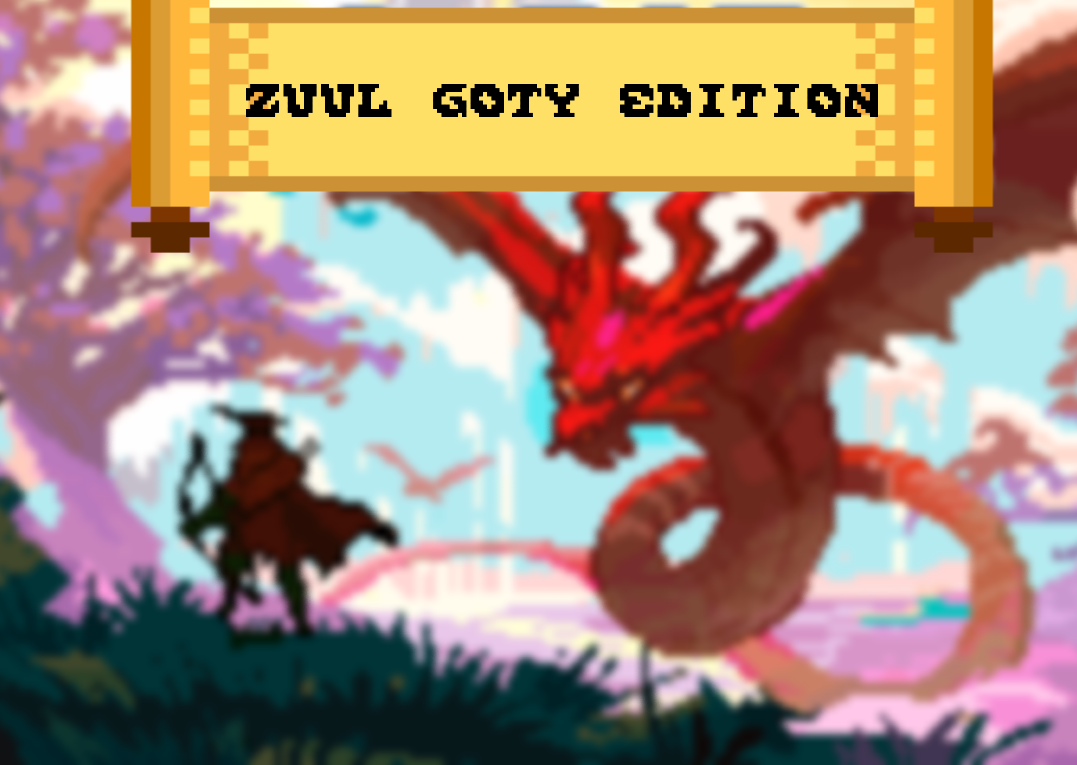
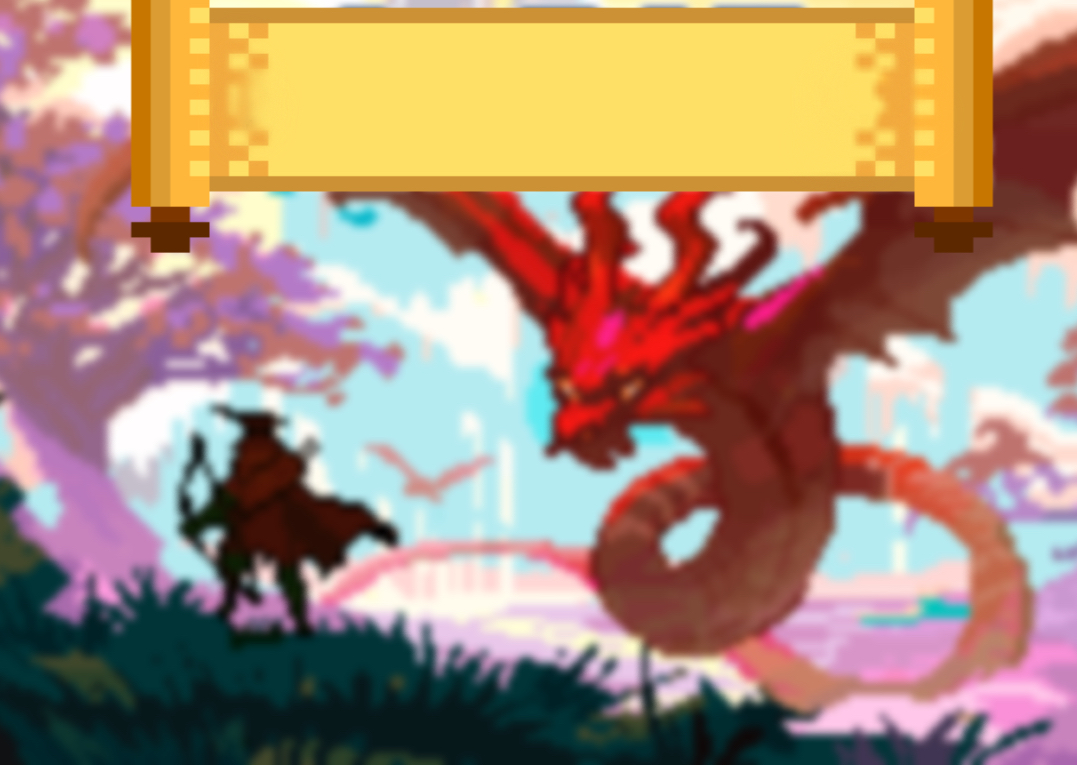
update font and menu image

Changed region(s): [[0.3983, 0.0902, 0.8579, 0.1503], [0.2145, 0.0902, 0.3677, 0.1804]]

diff --git a/pkg_UI/UserInterface.java b/pkg_UI/UserInterface.java
@@ -607,8 +607,6 @@ public class UserInterface implements ActionListener {
     }
   }
 
-
-
   /**
    * Show the background of the game over menu
    */
@@ -705,7 +703,11 @@ public class UserInterface implements ActionListener {
     // to import custom font
     // https://www.ryisnow.online/2021/04/java-for-beginner-how-to-use-custom-font.html
     try {
-      aFont = Font.createFont(Font.TRUETYPE_FONT, new File(aJsonReader.getGameFont()));
+      aFont =
+        Font.createFont(
+          Font.TRUETYPE_FONT,
+          new File(aJsonReader.getGameFont())
+        );
       GraphicsEnvironment vGraphicsEnvironment = GraphicsEnvironment.getLocalGraphicsEnvironment();
       vGraphicsEnvironment.registerFont(aFont);
 
@@ -725,7 +727,10 @@ public class UserInterface implements ActionListener {
     // to import custom font
     try {
       aMainMenuFont =
-        Font.createFont(Font.TRUETYPE_FONT, new File(aJsonReader.getMainMenuFont()));
+        Font.createFont(
+          Font.TRUETYPE_FONT,
+          new File(aJsonReader.getMainMenuFont())
+        );
       GraphicsEnvironment vGraphicsEnvironment = GraphicsEnvironment.getLocalGraphicsEnvironment();
       vGraphicsEnvironment.registerFont(aMainMenuFont);
 
@@ -1007,6 +1012,7 @@ public class UserInterface implements ActionListener {
 
   /**
    * This method create the panel of the battle
+   * //TODO: Update Battle panel
    */
   private void createBattlePanel() {
     this.aBattlerPanel = new JLayeredPane();
@@ -1225,7 +1231,7 @@ public class UserInterface implements ActionListener {
     this.aSoundPanel.add(vTitle, JLayeredPane.PALETTE_LAYER);
   }
 
-  private void createLanguagePanel(){
+  private void createLanguagePanel() {
     this.aLanguagePanel = new JLayeredPane();
     this.aLanguageBackground = new JLabel();
     this.aLanguagePanel.setPreferredSize(new Dimension(1077, 765));
@@ -1554,7 +1560,7 @@ public class UserInterface implements ActionListener {
   private void devModeToggle() {
     if (aEngine.isDevMode()) {
       this.aEngine.setDevMode(false);
-      this.aDevMode.setText(aJsonReader.getDevModeButton()+ " : OFF");
+      this.aDevMode.setText(aJsonReader.getDevModeButton() + " : OFF");
     } else {
       this.aEngine.setDevMode(true);
       this.aDevMode.setText(aJsonReader.getDevModeButton() + " : ON");
@@ -1614,18 +1620,17 @@ public class UserInterface implements ActionListener {
       writer.print("EN");
       writer.close();
     } catch (FileNotFoundException e) {
-      // TODO Auto-generated catch block
       e.printStackTrace();
     }
     JDialog vDialog = new JDialog();
-      JLabel vLabel = new JLabel(
-        "You must restart the game for the changes to take effect"
-      );
-      vLabel.setFont(aTextFont);
-      vDialog.add(vLabel);
-      vDialog.setSize(800, 100);
-      vDialog.setLocation(100, 100);
-      vDialog.setVisible(true);
+    JLabel vLabel = new JLabel(
+      "You must restart the game for the changes to take effect"
+    );
+    vLabel.setFont(aTextFont);
+    vDialog.add(vLabel);
+    vDialog.setSize(800, 100);
+    vDialog.setLocation(100, 100);
+    vDialog.setVisible(true);
   }
 
   private void frenchButton() {
@@ -1635,18 +1640,17 @@ public class UserInterface implements ActionListener {
       writer.print("FR");
       writer.close();
     } catch (FileNotFoundException e) {
-      // TODO Auto-generated catch block
       e.printStackTrace();
     }
     JDialog vDialog = new JDialog();
-      JLabel vLabel = new JLabel(
-        "Vous devez redémarrer le jeu pour que les changements prennent effet"
-      );
-      vLabel.setFont(aTextFont);
-      vDialog.add(vLabel);
-      vDialog.setSize(800, 100);
-      vDialog.setLocation(100, 100);
-      vDialog.setVisible(true);
+    JLabel vLabel = new JLabel(
+      "Vous devez redémarrer le jeu pour que les changements prennent effet"
+    );
+    vLabel.setFont(aTextFont);
+    vDialog.add(vLabel);
+    vDialog.setSize(800, 100);
+    vDialog.setLocation(100, 100);
+    vDialog.setVisible(true);
   }
 
   /**

diff --git a/pkg_Core/JSONReader.java b/pkg_Core/JSONReader.java
@@ -2,14 +2,12 @@ package pkg_Core;
 
 import java.io.File;
 import java.io.FileNotFoundException;
-
 // Java program to read JSON from a file
 
 import java.io.FileReader;
 import java.io.IOException;
 import java.util.Map;
 import java.util.Scanner;
-
 import org.json.simple.JSONObject;
 import org.json.simple.parser.*;
 
@@ -369,8 +367,7 @@ public class JSONReader {
     setGameInformation();
   }
 
-  public void setGameInformation(){
-
+  public void setGameInformation() {
     setGameSettings();
 
     //Player information
@@ -412,7 +409,6 @@ public class JSONReader {
     } catch (FileNotFoundException e) {
       e.printStackTrace();
     }
-    
   }
 
   public String getLanguage() {
@@ -453,7 +449,8 @@ public class JSONReader {
     aSoundOnButton = (String) vGameSettings.get("soundOnButton");
     aSoundOffButton = (String) vGameSettings.get("soundOffButton");
     aLanguageButton = (String) vGameSettings.get("languageButton");
-    aEnglishLanguageButton = (String) vGameSettings.get("englishLanguageButton");
+    aEnglishLanguageButton =
+      (String) vGameSettings.get("englishLanguageButton");
     aFrenchLanguageButton = (String) vGameSettings.get("frenchLanguageButton");
     aRunButton = (String) vGameSettings.get("runButton");
     aBagButton = (String) vGameSettings.get("bagButton");
